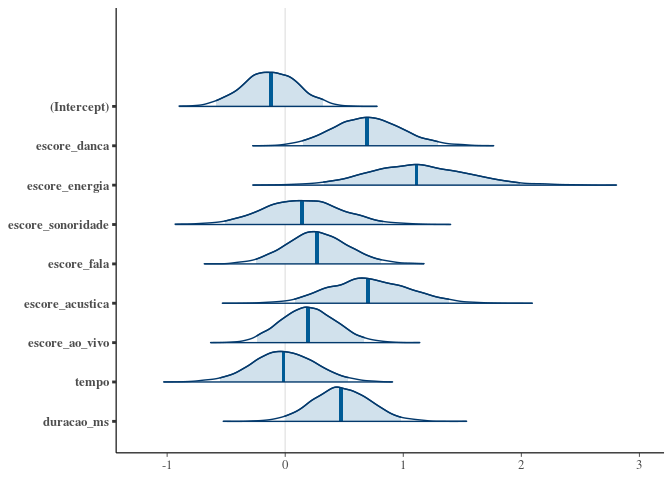
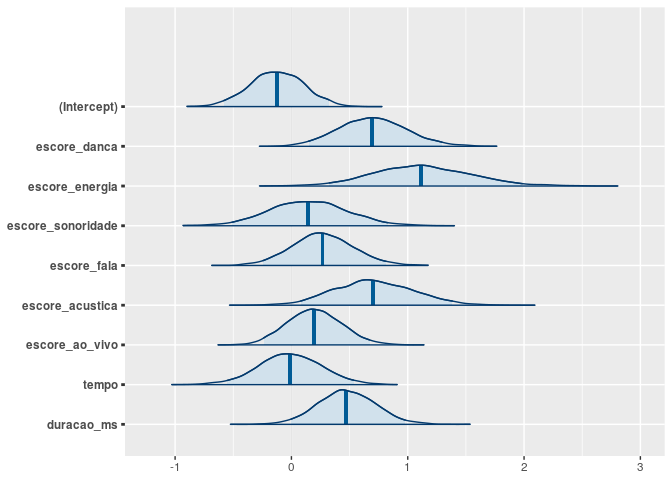
Alterando post spotify

diff --git a/_posts/2020-06-08-spotify_playlist-post.md b/_posts/2020-06-08-spotify_playlist-post.md
@@ -6,12 +6,12 @@ author: Bruno Santos
 
 Diante do atual cenário de isolamento durante a quarentena devido à
 pandemia da Covid-19, é interessante pensarmos em maneiras de contornar
-alguns dos desprazeres de estarmos longe dos nossos amigos e familiares.
-Para mim uma das soluções para resolver esse probleminha é *ouvir uma
-boa música*. Embora a definição de “boa música” possa variar de pessoa
-pra pessoa, nesse *post* vamos utilizar uma informação objetiva sobre
-músicas “felizes”, conforme uma variável que é fornecida pela API do
-Spotify.
+alguns dos desprazeres de estarmos longe fisicamente dos nossos amigos e
+familiares. Para mim uma das soluções para resolver esse probleminha é
+*ouvir uma boa música*. Embora a definição de “boa música” possa variar
+de pessoa pra pessoa, nesse *post* vamos utilizar uma informação
+objetiva sobre músicas “felizes”, conforme uma variável que é fornecida
+pela API do Spotify.
 
 Segundo o [manual de
 referência](https://developer.spotify.com/documentation/web-api/reference/tracks/get-audio-analysis/)
@@ -19,26 +19,38 @@ de uso da API do Spotify, existe uma variável atribuída a cada música no
 aplicativo, chamada *valence*, que tem sua definição traduzida
 livremente aqui:
 
-> Uma medida de 0.0 a 1.0 descrevendo a positiva musical transmitida por
-> uma música. Músicas com alto valor de **valência** soam mais
+> Uma medida de 0.0 a 1.0 descrevendo a positividade musical transmitida
+> por uma música. Músicas com alto valor de **valência** soam mais
 > positivas, enquanto que músicas com baixo valor de **valência** soam
 > mais negativas.
 
-Considerando então essa informação de valência (segundo tradução
-própria) de uma amostra de músicas, vamos construir um modelo
-estatístico para tentar identificar características (ou covariáveis)
-que ajudem a explicar essa *positividade* nas músicas para então
-construir uma nova *playlist*.
+Considerando então essa informação de valência de uma amostra de
+músicas, vamos construir um modelo estatístico para tentar identificar
+características (ou covariáveis) que ajudem a explicar essa
+*positividade* (**variável resposta**) nas músicas para então construir
+uma nova *playlist*.
 
-Vamos considerar os seguintes pacotes para essa análise:
+Vamos considerar os seguintes pacotes para essa análise.
 
 ``` r
 library(Rspotify)
 library(dplyr)
-library(httr)
+# library(httr)
 library(ggplot2)
 library(rstanarm)
 ```
+
+O pacote
+[`Rspotify`](https://cran.r-project.org/web/packages/Rspotify/index.html)
+é utilizado para buscar as músicas na API do Spotify. O pacote
+[`dplyr`](https://dplyr.tidyverse.org/) é necessário para todas as
+operações de selecionar, renomear, filtrar, entre outras, que são
+feitas no banco de dados ao longo da análise. O pacote
+[`ggplot2`](https://ggplot2.tidyverse.org/) nos ajuda a fazer os
+gráficos de maneira prática e fácil. E o pacote
+[rstanarm](https://mc-stan.org/rstanarm/) é utilizado para estimar os
+modelos bayesianos que serão empregados para construir uma nova
+*playlist*.
 
 Para ter acesso às músicas, é preciso obter uma chave de acesso conforme
 descrição nesse
@@ -141,13 +153,11 @@ nos ater a um modelo explicável. Essa escolha é simplesmente por
 simplificação do problema, embora em uma oportunidade futura podemos
 rever essa escolha. Temos então para a variável resposta ![Y
 = 1](https://latex.codecogs.com/png.latex?Y%20%3D%201 "Y = 1"), se a
-música é mais positiva, e ![Y
+música é mais positiva (valência \> 0,5), e ![Y
 = 0](https://latex.codecogs.com/png.latex?Y%20%3D%200 "Y = 0"), caso
 contrário.
 
-Dizemos aqui que a música é classificada como mais positiva porque
-fizemos essa quebra no valor hipótetico 0,5, inicialmente. Supomos que
-![P(Y = 1) =
+Supomos que ![P(Y = 1) =
 p](https://latex.codecogs.com/png.latex?P%28Y%20%3D%201%29%20%3D%20p
 "P(Y = 1) = p") e utilizando o modelo de regressão logístico podemos
 escrever essa probabilidade como
@@ -156,14 +166,17 @@ escrever essa probabilidade como
 ![p = \\frac{e^{X\\beta}}{1 +
 e^{X\\beta}},](https://latex.codecogs.com/png.latex?p%20%3D%20%5Cfrac%7Be%5E%7BX%5Cbeta%7D%7D%7B1%20%2B%20e%5E%7BX%5Cbeta%7D%7D%2C
 "p = \\frac{e^{X\\beta}}{1 + e^{X\\beta}},")  
-
-em que colocamos na matriz de planejamento X nossas variáveis
-preditivas. Nosso interesse é estimar o vetor
+em que colocamos na matriz de planejamento X nossas covariáveis. Nosso
+interesse é estimar o vetor
 ![\\beta](https://latex.codecogs.com/png.latex?%5Cbeta "\\beta") segundo
-a nossa amostra de 100 músicas. Antes de estimar o modelo, podemos
-checar se as variáveis preditoras (após uma padronização dos seus
-valores) possuem algum tipo de correlação alta entre si, fazendo por
-exemplo:
+a nossa amostra de 100 músicas. Uma vez com beta estimado e a depender
+dos valores de X de uma dada música, podemos então estimar a
+probabilidade da música ser positiva ao considerar a relação dada na
+equação acima.
+
+Antes de estimar o modelo, podemos checar se as covariáveis (após uma
+padronização dos seus valores) possuem algum tipo de correlação alta
+entre si, fazendo por exemplo:
 
 ``` r
 variaveis_preditoras <- todas_musicas %>% 
@@ -181,8 +194,12 @@ A análise do gráfico anterior nos mostra que a variável
 `escore_sonoridade` e `escore_energia` tem uma correlação alta. Apesar
 disso, vamos manter as duas variáveis na matriz de planejamento
 ![X](https://latex.codecogs.com/png.latex?X "X"), porém nos atentaremos
-às estimativas do modelo. Para estimação dos parâmetros do modelo vamos
-considerar a inferência bayesiana, através do pacote `rstanarm`. Para a
+às estimativas do modelo.
+
+Para estimação dos parâmetros do modelo vamos considerar a inferência
+bayesiana, através do pacote `rstanarm`. Uma introdução básica ao tema
+pode ser vista no
+[link](https://pt.wikipedia.org/wiki/Infer%C3%AAncia_bayesiana). Para a
 definição das nossas crenças a priori sobre o vetor de parâmetros
 ![\\beta](https://latex.codecogs.com/png.latex?%5Cbeta "\\beta"),
 consideramos uma distribuição t-Student com 7 graus de liberdade,
@@ -205,11 +222,14 @@ modelo <- stan_glm(outcome ~ .,
 ```
 
 Podemos verificar densidades das distribuições a posteriori dos
-parâmetros, fazendo
+parâmetros,
+    fazendo
 
 ``` r
 plot(modelo, "areas", prob = 0.95, prob_outer = 1)
 ```
+
+    ## Warning: `expand_scale()` is deprecated; use `expansion()` instead.
 
 ![](/assets/images/unnamed-chunk-10-1.png)<!-- -->
 
@@ -243,73 +263,14 @@ posterior_interval(modelo, prob = 0.95)
     ## tempo             -0.550411657 0.5339127
     ## duracao_ms        -0.002269076 0.9785030
 
-Tendo em vista os intervalos de credibilidade, diríamos que os
+Tendo em vista os intervalos de 95% de credibilidade, diríamos que os
 parâmetros associados às covariáveis `escore_danca`, `escore_energia` e
-`duracao_ms` contribuem positivamente para a razão de chances entre
-músicas mais positivas e menos positivas, conforme aumentamos os
-valores dessas variáveis. Esse é um aspecto do modelo logístico, em que
-podemos interpretar os valores dos parâmetros obtidos. Nesse caso
-diríamos que quanto maior os valores dessas variáveis maior a chance de
-observamos uma música positiva.
-
-Agora, tendo em vista que fixamos o valor intermediário igual a 0.5,
-podemos variar esse valor e verificar se nossa inferência com relação
-aos parâmetros também se altera. Para isso, podemos utilizar os quantis
-da variável `valencia` conforme:
-
-``` r
-sequencia_quantis <- seq(0.25, 0.75, length = 21)
-quantis_valencia <-  quantile(todas_musicas$valencia, sequencia_quantis)
-```
-
-Podemos usar o objeto `quantis_valencia` e estimar o modelo diversas
-formas, guardando as estimativas obtidas ao final, assim como o valor da
-variável resposta utilizada.
-
-``` r
-resultados <- lapply(1:length(quantis_valencia), function(a){
-  todas_musicas <- todas_musicas %>%
-    mutate(valencia_cat = cut(valencia, c(0, quantis_valencia[a], 1)))
-
-  data_model$outcome <- todas_musicas$valencia_cat  
-
-  modelo_lista <- stan_glm(outcome ~ .,
-            data = data_model,
-            family = binomial(link = "logit"), 
-            prior = t_prior, prior_intercept = t_prior, 
-            QR = FALSE,
-            seed = 12345678, refresh = 0)
-
-  coeficientes <- coef(modelo_lista)
-
-  intervalos <- posterior_interval(modelo_lista, prob = 0.95)
-
-  valores <- tibble(coef = coeficientes, 
-            lim_inf =  intervalos[, 1],
-            lim_sup =  intervalos[, 2],
-            valor_quantil = sequencia_quantis[a])
-  valores <- mutate(valores, nome = names(coeficientes))
-  valores
-})
-
-todas_estimativas <- do.call(rbind.data.frame, resultados)
-
-g <- ggplot(todas_estimativas, aes(x = valor_quantil)) + theme_minimal()
-g + geom_line(aes(y = coef)) + 
-  geom_line(aes(y = lim_inf), linetype = 2) + 
-  geom_line(aes(y = lim_sup), linetype = 2) + 
-  facet_wrap(~ nome) + 
-  xlab("Quantis de valencia") + ylab("Coeficientes e intervalo de credibilidade de 95%")
-```
-
-![](/assets/images/unnamed-chunk-13-1.png)<!-- -->
-
-O resultado mostra no gráfico acima é interessante pois mostra que
-independente da escolha que fizéssemos pra o ponto de corte, quando
-criamos a variável categórica, teríamos obtido as mesmas estimativas
-praticamente, com exceção de alguns valores mais extremos dos quantis.
-Com relação ao intercepto, é natural a variação observada tendo em vista
-a interpretação desse parâmetro para o modelo logístico.
+`escore_acustica` contribuem positivamente para a razão de chances entre
+músicas mais positivas e menos positivas, conforme aumentamos os valores
+dessas variáveis. Esse é um aspecto do modelo logístico, em que podemos
+interpretar os valores dos parâmetros obtidos. Nesse caso diríamos que
+quanto maior os valores dessas variáveis maior a chance de observamos
+uma música positiva.
 
 Supondo que a variável resposta seja em parte explicada pelas letras da
 música, mas em outra parte possa ser entendida como funcões das
@@ -362,10 +323,11 @@ foi utilizado para estimação do modelo e desse banco de dados que
 usaremos para as previsões são similares, mas isso poderia ser
 investigado com mais cuidado. Além disso, esse exercício de previsão
 poderia ser considerado dispensável, dado que temos disponível a
-variável `valencia`. No entanto, gostaríamos de reforçar que, supondo
-que essa informação tenha sido construída com algum algoritmo que leva
-em consideração a letra da música e outras informações, essa análise
-poderia estar de alguma desatualizada.
+variável `valencia` também para as variáveis dessa *playlist*. Porém,
+supondo que os coeficientes estimados no modelo anterior conseguem
+explicar parte da variabilidade da **positividade** das músicas em
+geral, entendemos que esse modelo possa ser utilizado no caso
+brasileiro.
 
 Dessa forma, podemos obter as previsões das probabilidades fazendo o
 cálculo das probabilidades:
@@ -387,18 +349,18 @@ top_10 <- musicas_dia_faxina %>%
 knitr::kable(top_10)
 ```
 
-| artist\_full                         | tracks                                               | probabilidades |
-| :----------------------------------- | :--------------------------------------------------- | -------------: |
-| Seu Jorge                            | Amiga Da Minha Mulher                                |      0.9662976 |
-| Henrique & Diego feat. Dennis DJ     | Malbec (Part. Dennis Dj) (feat. Dennis DJ) - Ao Vivo |      0.9099829 |
-| Gloria Groove                        | Coisa Boa                                            |      0.8615282 |
-| MC Guime feat. Emicida               | País do Futebol                                      |      0.8377319 |
-| IZA feat. Rincon Sapiência           | Ginga (Participação especial de Rincon Sapiência)    |      0.8164211 |
-| Atitude 67                           | Cerveja De Garrafa (Fumaça Que Eu Faço) - Ao Vivo    |      0.8137753 |
-| Maiara & Maraisa                     | 10% - Ao Vivo                                        |      0.8119093 |
-| POCAH                                | Não sou obrigada                                     |      0.8080835 |
-| MC Loma e As Gêmeas Lacração         | Envolvimento                                         |      0.8029371 |
-| Nego do Borel feat. Maiara & Maraisa | Esqueci Como Namora (feat. Maiara & Maraisa)         |      0.7906094 |
+| artist\_full                     | tracks                                               | probabilidades |
+| :------------------------------- | :--------------------------------------------------- | -------------: |
+| Seu Jorge                        | Amiga Da Minha Mulher                                |      0.9745518 |
+| Henrique & Diego feat. Dennis DJ | Malbec (Part. Dennis Dj) (feat. Dennis DJ) - Ao Vivo |      0.9198087 |
+| Zé Felipe feat. Menor            | Você Não Vale Nada                                   |      0.8787458 |
+| João Lucas & Marcelo feat. MC K9 | Louquinha (feat. MC K9)                              |      0.8498655 |
+| MC Guime feat. Emicida           | País do Futebol                                      |      0.8496449 |
+| Thiaguinho feat. Ludmilla        | Só Vem\! - Ao Vivo                                   |      0.8473463 |
+| Atitude 67                       | Cerveja De Garrafa (Fumaça Que Eu Faço) - Ao Vivo    |      0.8346313 |
+| Maiara & Maraisa                 | 10% - Ao Vivo                                        |      0.8227158 |
+| POCAH                            | Não sou obrigada                                     |      0.8210113 |
+| MC Loma e As Gêmeas Lacração     | Envolvimento                                         |      0.8205628 |
 
 Essas seriam então as dez músicas com maiores probabilidades segundo o
 modelo construído anteriormente. Poderíamos fazer algumas perguntas pra
@@ -414,3 +376,64 @@ possibilidade de utilizarmos modelos probabilísticos para fazer uma
 tarefa que talvez não usual, como pensar numa *playlist* no Spotify.
 Aqui também aproveitamos para mostrar também como fazer esse tipo de
 consultas usando a respectiva API.
+
+## Informações adicionais
+
+Com relação à escolha do valor intermediário em que fixamos o valor
+igual a 0.5, podemos variar essa quantidade e verificar se nossa
+inferência com relação aos parâmetros se altera. Para isso, podemos
+utilizar os quantis da variável `valencia` conforme:
+
+``` r
+sequencia_quantis <- seq(0.25, 0.75, length = 21)
+quantis_valencia <-  quantile(todas_musicas$valencia, sequencia_quantis)
+```
+
+Podemos usar o objeto `quantis_valencia` e estimar o modelo diversas
+vezes, guardando as estimativas obtidas ao final, assim como o valor da
+variável resposta utilizada.
+
+``` r
+resultados <- lapply(1:length(quantis_valencia), function(a){
+  todas_musicas <- todas_musicas %>%
+    mutate(valencia_cat = cut(valencia, c(0, quantis_valencia[a], 1)))
+
+  data_model$outcome <- todas_musicas$valencia_cat  
+
+  modelo_lista <- stan_glm(outcome ~ .,
+            data = data_model,
+            family = binomial(link = "logit"), 
+            prior = t_prior, prior_intercept = t_prior, 
+            QR = FALSE,
+            seed = 12345678, refresh = 0)
+
+  coeficientes <- coef(modelo_lista)
+
+  intervalos <- posterior_interval(modelo_lista, prob = 0.95)
+
+  valores <- tibble(coef = coeficientes, 
+            lim_inf =  intervalos[, 1],
+            lim_sup =  intervalos[, 2],
+            valor_quantil = sequencia_quantis[a])
+  valores <- mutate(valores, nome = names(coeficientes))
+  valores
+})
+
+todas_estimativas <- do.call(rbind.data.frame, resultados)
+
+g <- ggplot(todas_estimativas, aes(x = valor_quantil)) + theme_minimal()
+g + geom_line(aes(y = coef)) + 
+  geom_line(aes(y = lim_inf), linetype = 2) + 
+  geom_line(aes(y = lim_sup), linetype = 2) + 
+  facet_wrap(~ nome) + 
+  xlab("Quantis de valencia") + ylab("Coeficientes e intervalo de credibilidade de 95%")
+```
+
+![](/assets/images/unnamed-chunk-15-1.png)<!-- -->
+
+O resultado mostra no gráfico acima é interessante pois mostra que
+independente da escolha que fizéssemos pra o ponto de corte, quando
+criamos a variável categórica, teríamos obtido as mesmas estimativas
+praticamente, com exceção de alguns valores mais extremos dos quantis.
+Com relação ao intercepto, é natural a variação observada tendo em vista
+a interpretação desse parâmetro para o modelo logístico.
